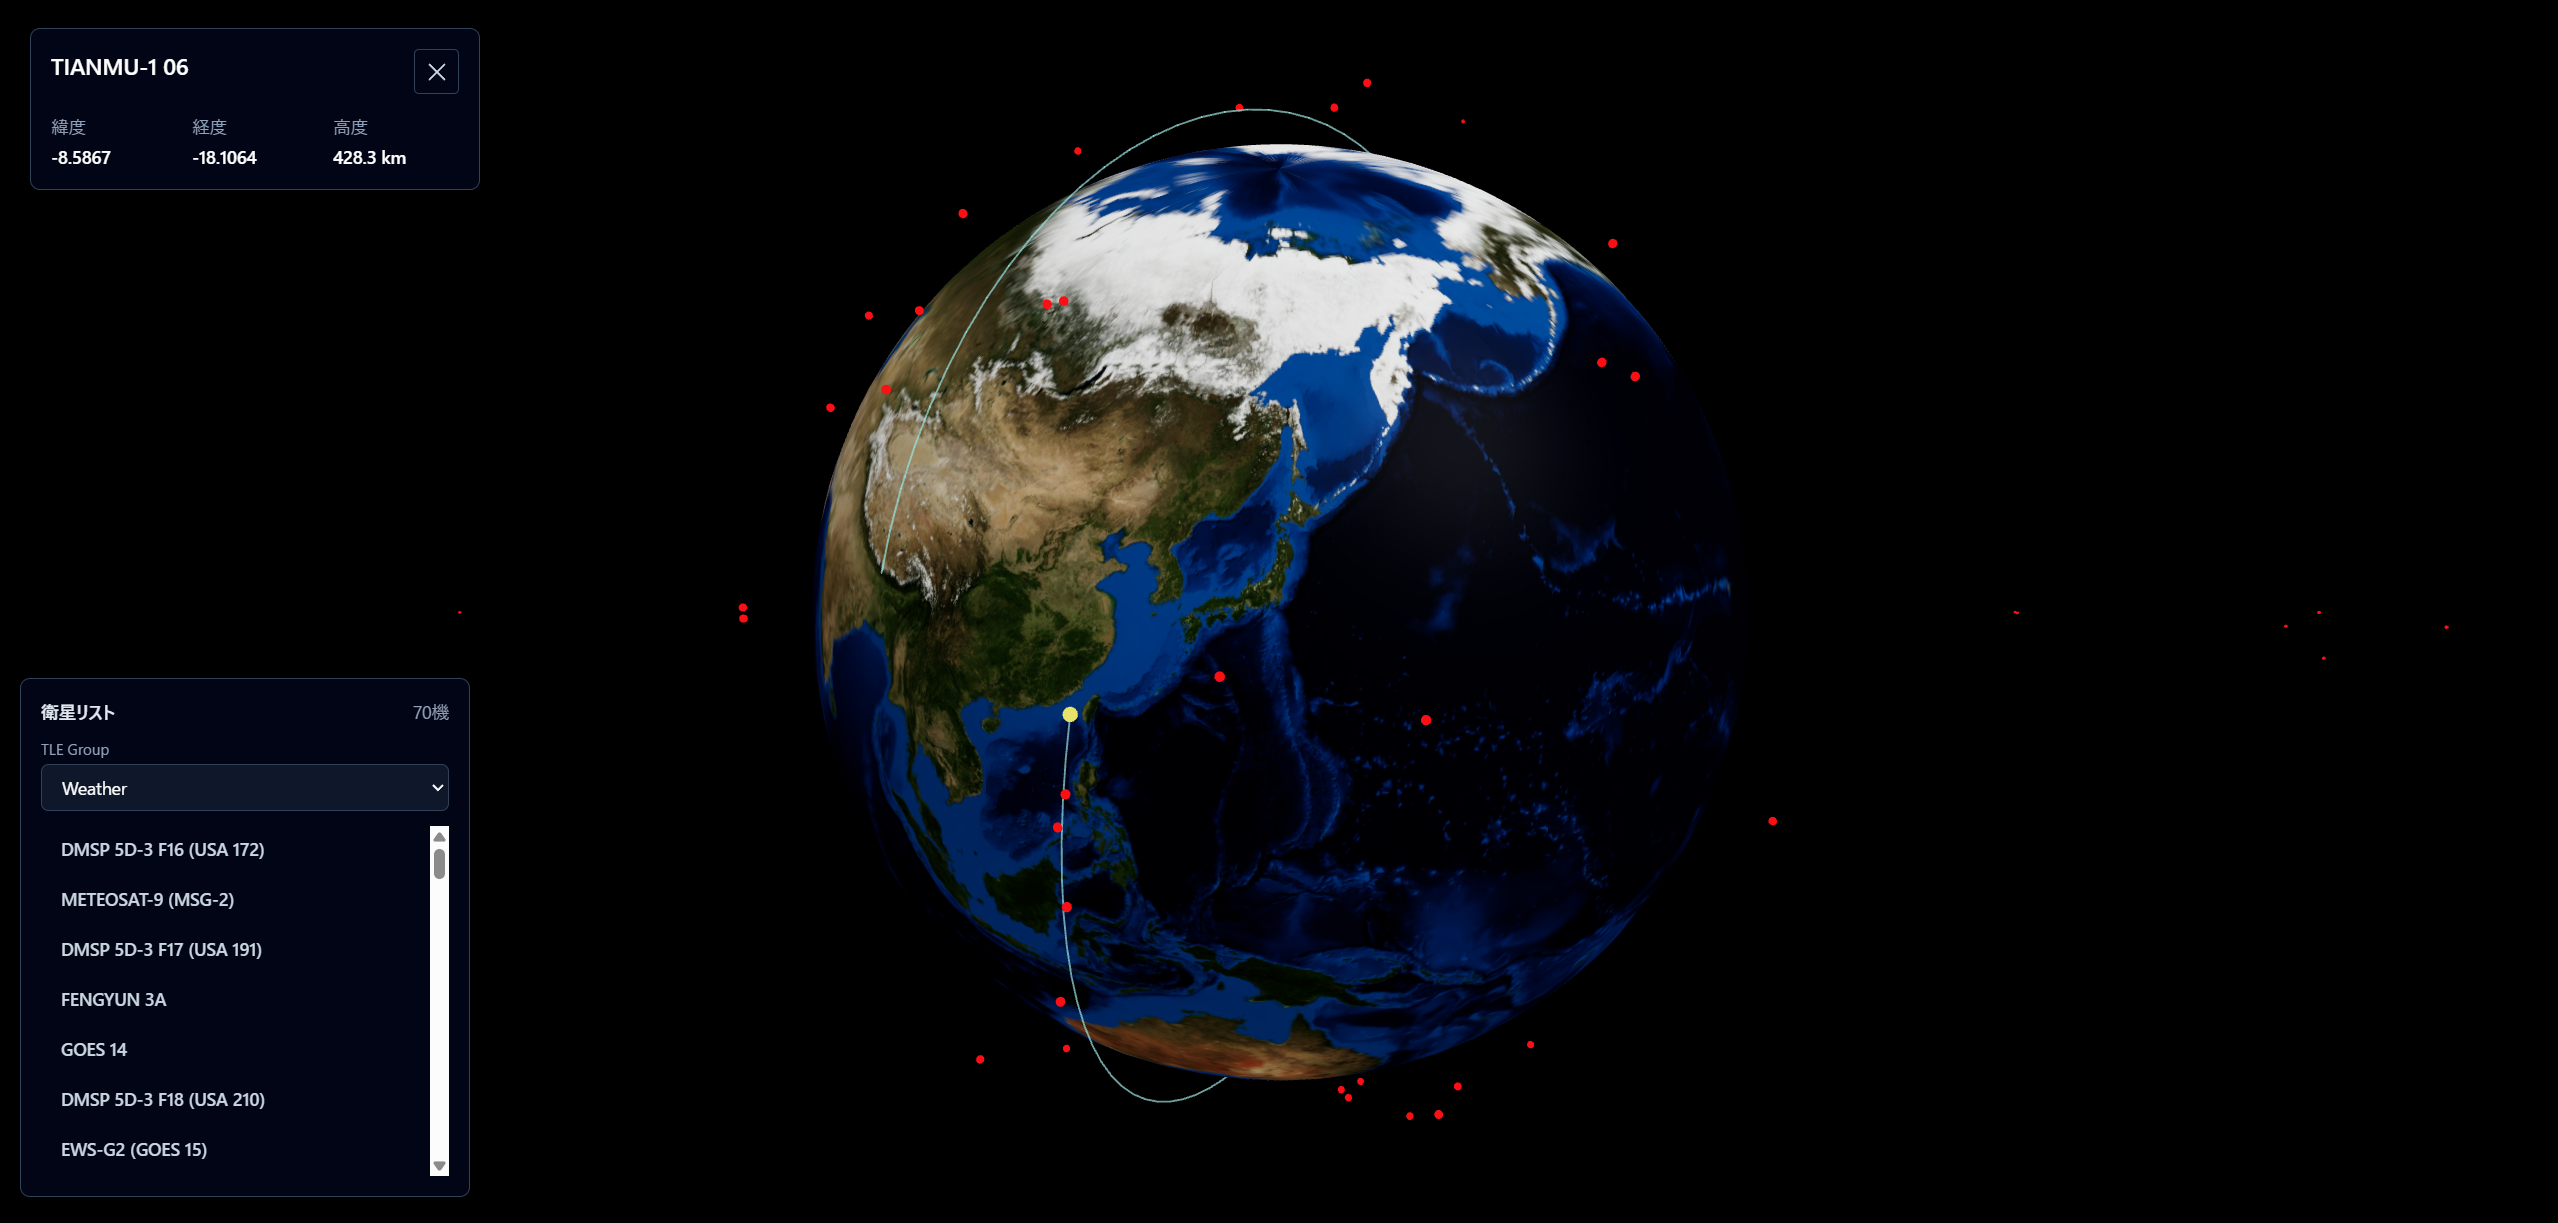
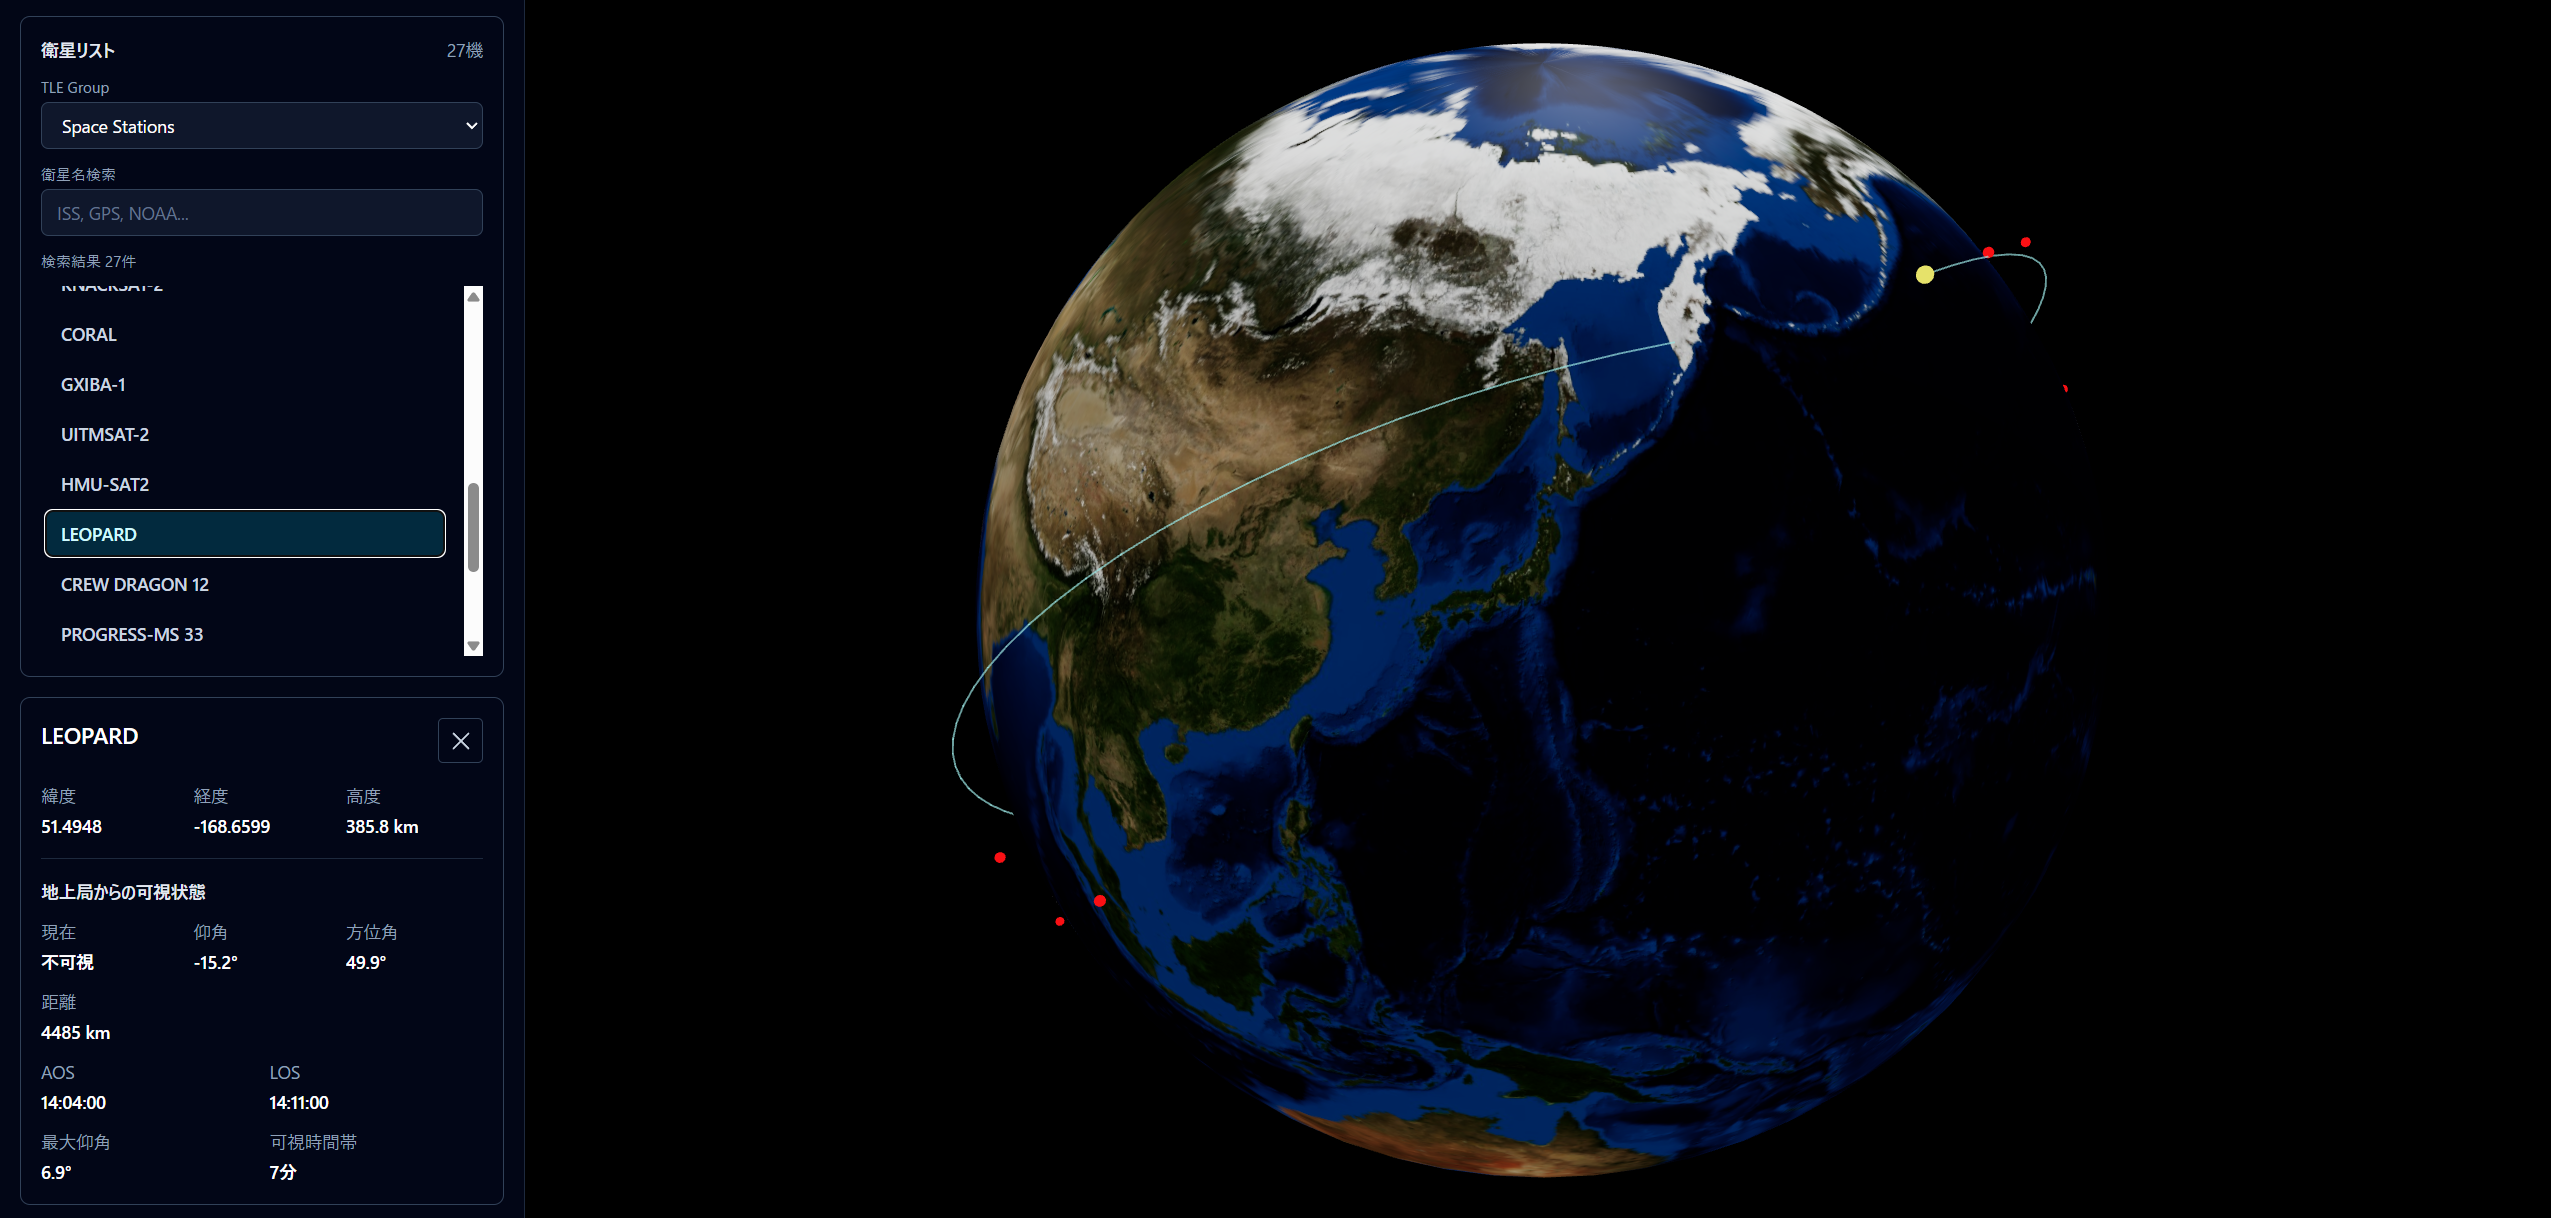
update:ドキュメントの更新

diff --git a/requirements.md b/requirements.md
@@ -1,21 +1,44 @@
 # 要件
+
 ## ゴール
 
-TLEデータをもとに衛星の現在位置を計算し、3D地球上にリアルタイム表示するWebアプリケーションを作成する。
+TLEデータをもとに衛星の現在位置・予測軌道・地上局からの可視時間帯を計算し、3D地球上に表示するWebアプリケーションを作成する。
+衛星データ処理、軌道計算、地上局からの可視判定、3D可視化をReact / TypeScriptで実装する。
 
-## 今回のスコープ
+## 現在のスコープ
 
-- CelesTrakからTLEデータを取得する
+- CelesTrak形式のTLEデータを扱う
 - satellite.jsを使ってTLEから衛星の現在位置を計算する
-- Three.jsで地球を3D表示する
-- 日本を中心にしたビューを表示する
-- 衛星の現在位置を地球上に表示する
+- 衛星の緯度、経度、高度を算出する
+- 算出した緯度経度を3D地球上の座標へ変換する
+- React Three Fiberで地球を3D表示する
+- 日本付近を見やすい初期ビューとして表示する
+- 衛星の現在位置を地球上にマーカー表示する
+- 選択した衛星の予測軌道を表示する
 - 衛星名、緯度、経度、高度を表示する
+- 地上局から見た選択中衛星の可視状態を表示する
+  - 仰角
+  - 方位角
+  - 距離
+  - AOS
+  - LOS
+  - 最大仰角
+  - 可視時間帯
+- TLEグループを切り替えられるようにする
+  - Space Stations
+  - Weather
+  - GPS Operational
+  - Active Satellites
+- 衛星名で検索できるようにする
+- 表示件数を制限し、衛星数が多い場合でも描画負荷を抑える
+- CelesTrakへの過剰アクセスを避けるため、開発中はモックTLEデータを利用できるようにする
 
-## 今後追加したい機能
+## 非機能要件
 
-- 今後24時間の軌道予測
-- 東京など特定地点からの可視窓計算
-- 複数衛星の同時表示
-- 日照・陰影判定
-- 仰角・方位角グラフ
+- GitHub Pagesで公開できるSPAとして実装する
+- React / TypeScript / Viteを使用する
+- 3D描画にはReact Three Fiberを使用する
+- 衛星位置計算や可視判定などのロジックはUIから分離する
+- API通信、状態管理、表示コンポーネントの責務を分ける
+- 大量衛星データを扱う場合でも、不要な位置計算と描画を抑制する
+- CelesTrakのアクセス制限を考慮し、不必要な再取得を避ける
